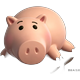
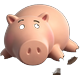
fix: preserve hooves/eyes, remove floor shadow and watermark in ham assets
Made-with: Cursor

diff --git a/process_ham.py b/process_ham.py
@@ -18,10 +18,12 @@ os.makedirs(PROC_DIR, exist_ok=True)
 
 # ── 工具函数 ─────────────────────────────────────────────────────────────────
 
-def load_remove_black(path, dark_thresh=60, feather=40):
+def load_remove_black(path, dark_thresh=12, feather=18, shadow_bright=90, shadow_chroma=28):
     """
-    从图片边缘做 BFS 洪泛填充，只去掉与边缘相连的黑色背景。
-    眼睛、蹄子等内部深色部分因为孤立而被完整保留。
+    从图片边缘做 BFS 洪泛填充，只去掉与边缘相连的近纯黑背景。
+    - dark_thresh 极低（12），只有真正的纯黑像素才参与 BFS 扩展，
+      不会误吃蹄子/眼睛等深色但非纯黑的部位。
+    - 背景去除后，额外清除孤立的亮色小像素团（水印文字）。
     """
     from collections import deque
 
@@ -29,16 +31,19 @@ def load_remove_black(path, dark_thresh=60, feather=40):
     arr = np.array(img, dtype=np.uint8)
     h, w = arr.shape[:2]
 
-    # 亮度图（最亮通道）
+    # ── 预处理：把右下角水印区域涂成纯黑，让 BFS 一起清掉 ────────────────
+    wm_h = int(h * 0.12)   # 底部 12%
+    wm_w = int(w * 0.28)   # 右侧 28%
+    arr[h - wm_h:, w - wm_w:, :3] = 0   # RGB → 纯黑，alpha 不动
+
     brightness = arr[..., :3].max(axis=2).astype(np.int32)
 
-    # "暗像素"掩码：亮度 < dark_thresh + feather（用于 BFS 邻居扩展）
+    # BFS 扩展条件：亮度 < dark_thresh + feather（仅扩展真正暗的像素）
     dark_mask = brightness < (dark_thresh + feather)
 
-    # BFS：从四条边界上所有暗像素出发，找到所有与背景相连的暗区域
+    # ── BFS 从四边出发 ─────────────────────────────────────────────────────
     visited = np.zeros((h, w), dtype=bool)
     queue = deque()
-
     for x in range(w):
         for y in [0, h - 1]:
             if dark_mask[y, x] and not visited[y, x]:
@@ -58,15 +63,58 @@ def load_remove_black(path, dark_thresh=60, feather=40):
                 visited[ny, nx] = True
                 queue.append((ny, nx))
 
-    # visited == True 的像素是背景，根据亮度做平滑透明过渡
+    # 背景区域根据亮度做羽化过渡
     result = arr.copy()
-    bg = visited  # shape (h, w)
-
-    # 背景区域：按亮度做 feather 渐变（亮度越高越不透明，模拟边缘羽化）
     bg_alpha = np.clip((brightness - dark_thresh) / feather * 255, 0, 255).astype(np.uint8)
-    # 非背景区域保持原透明度
-    new_alpha = np.where(bg, bg_alpha, arr[..., 3])
+    new_alpha = np.where(visited, bg_alpha, arr[..., 3])
     result[..., 3] = new_alpha.astype(np.uint8)
+
+    # ── 去除地面阴影/反光：暗色且低饱和度的像素 ───────────────────────────
+    # 阴影特征：亮度低、色彩范围小（灰黑）；猪蹄特征：比阴影稍亮且带棕色调
+    r2 = result[..., 0].astype(np.int32)
+    g2 = result[..., 1].astype(np.int32)
+    b2 = result[..., 2].astype(np.int32)
+    br2 = np.maximum(np.maximum(r2, g2), b2)
+    chroma2 = br2 - np.minimum(np.minimum(r2, g2), b2)
+    # 暗（亮度<shadow_bright）且近灰（色彩范围<shadow_chroma）→ 阴影，清除
+    shadow_mask = (br2 < shadow_bright) & (chroma2 < shadow_chroma) & (result[..., 3] > 0)
+    result[..., 3][shadow_mask] = 0
+
+    # ── 去除孤立亮色像素团（水印文字）─────────────────────────────────────
+    # 对当前 alpha>0 的像素做连通区域标记，找出与主体不相连的小块并清除
+    alpha_mask = result[..., 3] > 30  # 当前不透明区域
+
+    # 用 BFS 找出所有连通区域，保留最大的（猪身体），其余小块清除
+    labeled = np.zeros((h, w), dtype=np.int32)
+    comp_id = 0
+    comp_sizes = {}
+
+    for sy in range(h):
+        for sx in range(w):
+            if alpha_mask[sy, sx] and labeled[sy, sx] == 0:
+                comp_id += 1
+                q2 = deque([(sy, sx)])
+                labeled[sy, sx] = comp_id
+                size = 0
+                while q2:
+                    cy2, cx2 = q2.popleft()
+                    size += 1
+                    for dy, dx in [(-1,0),(1,0),(0,-1),(0,1),
+                                   (-1,-1),(-1,1),(1,-1),(1,1)]:
+                        ny2, nx2 = cy2 + dy, cx2 + dx
+                        if 0 <= ny2 < h and 0 <= nx2 < w \
+                                and alpha_mask[ny2, nx2] and labeled[ny2, nx2] == 0:
+                            labeled[ny2, nx2] = comp_id
+                            q2.append((ny2, nx2))
+                comp_sizes[comp_id] = size
+
+    if comp_sizes:
+        # 主体是最大连通区域；小于主体 1% 的区域视为噪点/水印，清除
+        max_size = max(comp_sizes.values())
+        remove_threshold = max(max_size * 0.01, 200)   # 至少 200px 才保留
+        for cid, sz in comp_sizes.items():
+            if sz < remove_threshold:
+                result[..., 3][labeled == cid] = 0
 
     return Image.fromarray(result, "RGBA")
 
